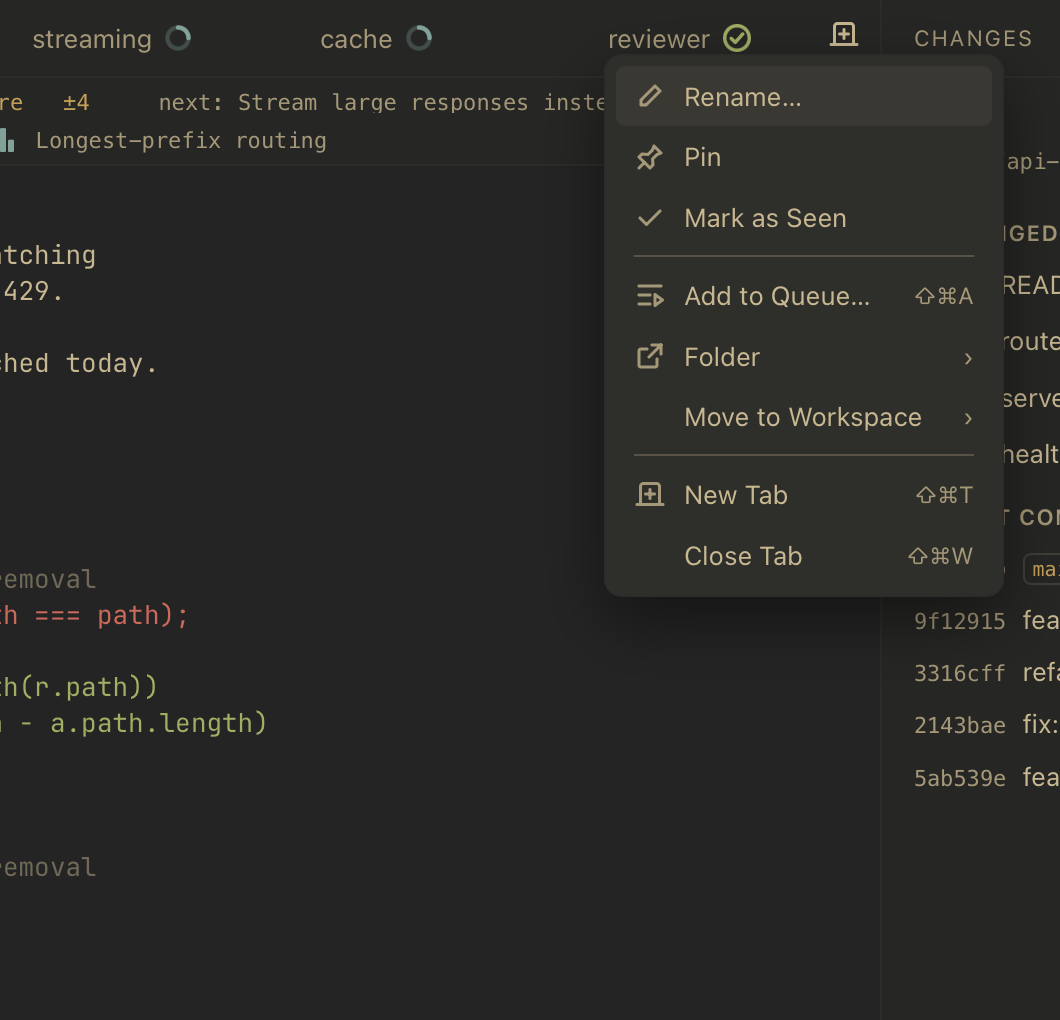
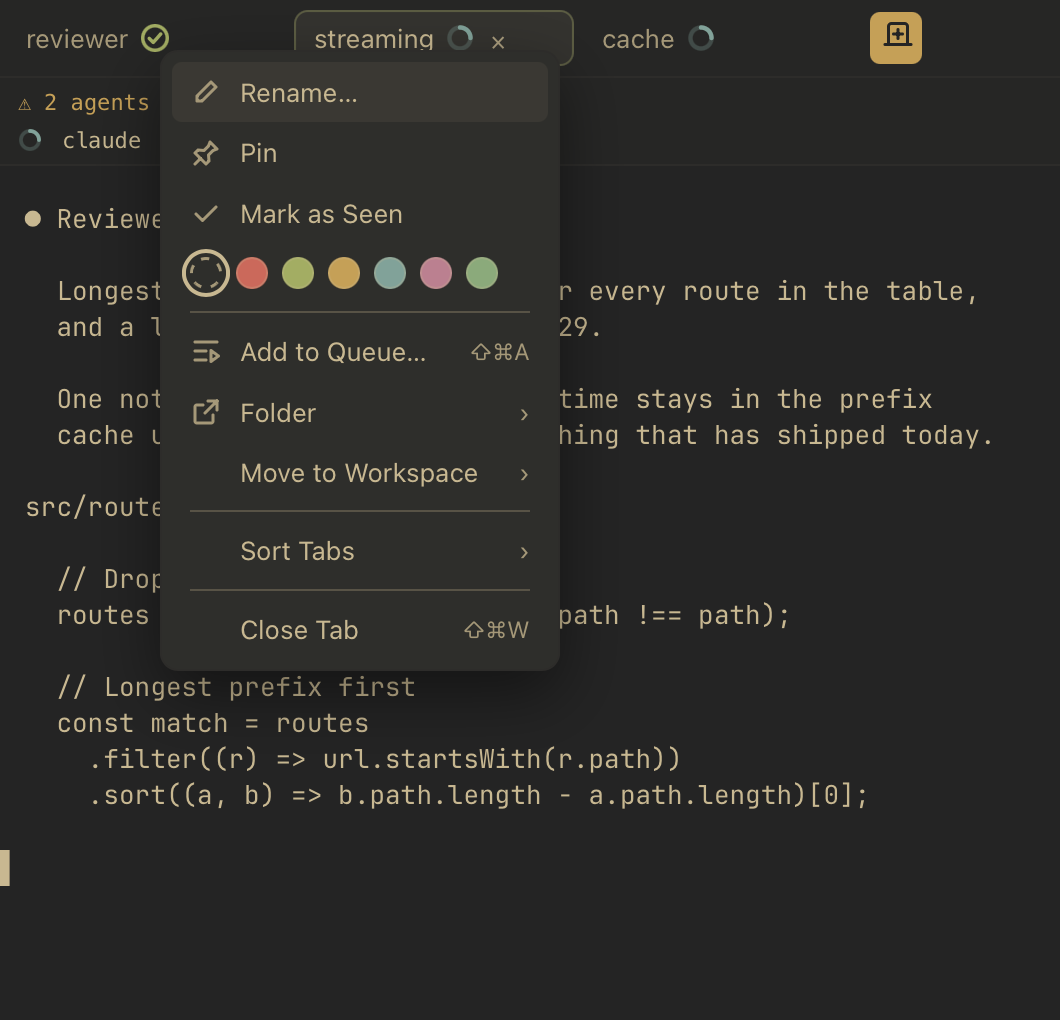
feat: remove New Tab from the tab right-click menu
It did the same as the + and ⌘⇧T, and nobody used it. Close Tab now
stands alone in the last group.

diff --git a/src/components/TabBar.tsx b/src/components/TabBar.tsx
@@ -161,8 +161,8 @@ export function TabBar({
     },
   });
 
-  /// The tab menu. It opens on the tab's own actions, so Enter never makes a
-  /// new tab, and ends with the ones that add or remove a tab.
+  /// The tab menu. It opens on the tab's own actions, so Enter never closes
+  /// the tab, and ends with Close Tab.
   const tabMenu = (tab: Tab): MenuItem[][] => {
     const { others, canSplit } = moveChoices(tab, snapshot);
     const pinned = isPinned(tab);
@@ -228,8 +228,6 @@ export function TabBar({
       ],
       [{ label: "Sort Tabs", items: [[sortChoice("Working First", "working"), sortChoice("Needs You First", "attention")]] }],
       [
-        // As the + button: the shortcut that does the same is ⌘⇧T, not ⌘T's plain terminal.
-        { label: "New Tab", icon: <NewTabIcon />, hint: controller.shortcutHint("new_command_tab"), onSelect: () => controller.newTab() },
         {
           label: "Close Tab",
           hint: pinned ? "Unpin first" : controller.shortcutHint("close_tab"),

diff --git a/docs/architecture.md b/docs/architecture.md
@@ -65,7 +65,7 @@ from that release and run the live test against a daemon of that version.
 | `terminal/mouse.ts` | Wheel events (one event for scrollback, one per line for apps) and the paste bound. |
 | `terminal/links.ts` | Finds the URL (http(s), or a bare `localhost`, `127.0.0.1` or `0.0.0.0:port`), commit hash or file path under a cell, within its pane and across wrapped rows. A URL wins over a hash inside it, and either over a path. ⌘-hover underlines any of them, ⌘-click opens a URL in the browser. A hash is any lone run of 7 to 64 lowercase hex digits, so a number can underline too; ⌘-click asks `find_commit` (`changes.rs`) from the pane's folder and opens the Changes panel on the commit, or says in a notice that there is none. `App` holds the commit until the panel has read that checkout, as a change of checkout closes the open commit. A path is any run of names with a `/`, or one name with an extension, without spaces and without a `:line` after it; ⌘-click asks `find_file` (`files.rs`), which tries it from the pane's folder, then that checkout's top, and answers the file's own checkout, which may be a worktree the pane is not in. The Files panel opens on that checkout until the file closes or the pane moves to another folder, and the file view opens on the file; no such file gives a notice. Local machine only. |
 | `app/hue.ts` | A workspace's color. `hue` is the automatic palette slot of a name; `workspaceSlots` turns `workspace_colors` into each workspace's chosen slot, a worktree taking its main checkout's, keyed by `colorKey`: the fixed root (`useRoots`) and the name, so a remote workspace has none; `workspaceHue` is what every workspace call site reads. `hueColor` alone is for what is not a workspace: DevBar's branch and team roles. |
-| `app/settings.ts` | The settings file's meaning: `parseSettings` turns `settings_load`'s JSON into a typed `Settings` with a default for every key, and a warning for a bad value or a key that is not a setting; `resolveTheme` finds the theme a value shows for the system appearance, built in or through `theme_read`, Herdr Night with a warning when it fails. `app/useSettings.ts` reads the file on launch and whenever the window comes back (only the latest read counts), hands it to `Controller.applySettings` (terminal size, `--ui-scale` for the chrome's text) and follows `prefers-color-scheme` for a pair. ⌘+ / ⌘- / ⌘0 write `terminal.font_size`; `confirm_close_tab`, on by default, is the off switch for the close dialog (see `app/closing.ts`); the tab strip's +, a tab menu's New Tab and ⌘⇧T type `new_tab.command` into the new tab's root pane once `tab.create` answers, and ⌥-click on + and ⌘T open a plain shell. `components/SettingsWarnings.tsx` shows the warnings over the terminal; `components/SettingsDialog.tsx` (⌘,, the palette, or the gear at the right end of the status bar) edits every key but `workspace_colors`, which a workspace's right-click sets, writing each change with `settings_set` as it is made, with a theme search and a preview drawn in the hovered theme's own tokens. See [settings.md](settings.md). |
+| `app/settings.ts` | The settings file's meaning: `parseSettings` turns `settings_load`'s JSON into a typed `Settings` with a default for every key, and a warning for a bad value or a key that is not a setting; `resolveTheme` finds the theme a value shows for the system appearance, built in or through `theme_read`, Herdr Night with a warning when it fails. `app/useSettings.ts` reads the file on launch and whenever the window comes back (only the latest read counts), hands it to `Controller.applySettings` (terminal size, `--ui-scale` for the chrome's text) and follows `prefers-color-scheme` for a pair. ⌘+ / ⌘- / ⌘0 write `terminal.font_size`; `confirm_close_tab`, on by default, is the off switch for the close dialog (see `app/closing.ts`); the tab strip's + and ⌘⇧T type `new_tab.command` into the new tab's root pane once `tab.create` answers, and ⌥-click on + and ⌘T open a plain shell. `components/SettingsWarnings.tsx` shows the warnings over the terminal; `components/SettingsDialog.tsx` (⌘,, the palette, or the gear at the right end of the status bar) edits every key but `workspace_colors`, which a workspace's right-click sets, writing each change with `settings_set` as it is made, with a theme search and a preview drawn in the hovered theme's own tokens. See [settings.md](settings.md). |
 | `app/closing.ts` | Closing a tab hides it at once. Herdr answers `tab.close` only after the tab's process has exited, which takes 300–600 ms for one that traps SIGHUP, as agents and dev servers do. The controller leaves closing tabs and their panes out of the snapshot it renders. Closing the focused tab focuses the one Herdr would pick (the one before it, or after it for the first) before sending the close. A refused close brings the tab back. Closing also hangs up the agent, so `closeAsk` decides whether to ask first: for `tab.close` and `pane.close` that would stop an agent mid-task (`busy` in `app/queue.ts`: working, blocked or looping), a pane counting only its own agent. `Controller.request` holds such a close in `state.closeAsk`, `components/CloseDialog.tsx` shows it, and `answerClose` runs it through the usual path. Shortcuts do nothing while it is open, since a move would hand the focus to the terminal and the Esc meant for the dialog would interrupt the agent. It is a dialog of ours because `window.confirm` cannot work here: wry gives WKWebView no JavaScript confirm handler, and without one WKWebView answers as if Cancel was pressed, with nothing on screen. |
 | `app/tabOrder.ts` | The strip's tab order, kept by the window: `Sort Tabs` on a tab's right-click picks Working First, the default, or Needs You First: blocked (and a finished agent that needs you), done, working. `tabRanks` ranks the tabs and `stripOrder` puts them right after the pinned ones, stable within a rank, in the strip only: a tab goes back to its place when its status drops, and ⌘1–9 still count the daemon's order, so a shortcut doesn't change target with a status. ⌥←/→ and Next / Previous Tab step in the strip's order, which `TabBar` hands the controller as `stripTabs`. `app/useSteadyStrip.ts` supplies the ranks: while the pointer is over the strip, and for 300 ms after it leaves, they stay as they were when the pointer came in, so no tab moves under a click, and a × or middle click within 500 ms of a move is ignored. New and closed tabs and pins show at once. |
 | `app/pins.ts` | Pinned tabs, kept by the window (Herdr has none) and keyed by daemon boot. A pin also moves the tab to the front with `tab.move`, so the daemon's order matches the strip. The set of pins lives in `App`, so the sidebar marks each workspace card that has pinned tabs. A pinned tab has no ×, ignores a middle click, and its menu's Close Tab is disabled until it is unpinned; ⌘⇧W still closes it. |
@@ -108,7 +108,7 @@ from that release and run the live test against a daemon of that version.
 | `files/highlight.ts`, `highlight.worker.ts`, `offThread.ts` | Syntax highlighting: the file view (a text file and a Markdown file's Source view) and the diff views, through `changes/diffTokens.ts`. `highlight.ts` holds the table of 22 languages, by file extension and well-known name, and turns code into tokens with Shiki's core and JS regex engine, no WASM. Core and grammars load on first use as chunks of their own. Token colors are `var(--code-…)`: `themes/chrome.ts` derives them from the palette and `applyTheme` sets them on `:root`, so a theme change repaints without tokenizing. It all runs in a worker (`offThread.ts` is the UI thread's side), since a grammar's first use compiles its regexes, 1.4 s for TypeScript in WKWebView. Slices of 4 KiB keep grammar state between them and let a file that was left stop. The answer is `null`, and the view stays plain, for an unknown language, a file over 256 KiB (the swap to spans is the one step on the UI thread, about 270 ms at the limit) or a grammar or worker that failed; a line over 5,000 characters is plain on its own. `DiffBody` passes text already through `clean` and draws tokens as `<span>`s (`components/TokenSpans.tsx`), never as HTML. |
 | `changes/diffTokens.ts` | Colors for a diff's lines. Each hunk's old side (context and removed) and new side (context and added) are tokenized apart, since a hunk's lines in order are no code that ever existed and an open string must not run into the next hunk; a context line takes the new side's tokens. `DiffBody` shows plain text first and swaps in tokens kept with their diff, so they never draw over another diff's lines. Over 256 KiB of diff stays plain. Known limit: a hunk knows nothing before it, so one that starts inside a block comment reads as code until the comment ends. |
 | `files/markdown.ts` | The file view's Markdown preview (`components/FileView.tsx`, Preview / Source in its header): markdown-it with `html: false`, so a file's own HTML shows as text; headings get GitHub's ids; frontmatter shows as a code block. `resolveLink` decides where a link goes: a web page (opened in the browser), a heading of this file, or another file of the checkout (opened in the view; one that leaves the checkout is refused). Images in the checkout are read through `read_file`; web ones, which the CSP blocks, show their alt text. |
-| `components/TabBar.tsx` | The tab strip: the focused workspace's tabs in `stripOrder`, handed to the controller as `stripTabs`, in wrapped rows or one that scrolls (`tabs.wrap`). Double-click renames, a middle click closes. The + runs `Controller.newTab`; ⌥-click opens a plain terminal. Its right-click has four groups: Rename, Pin, Mark as Seen and, on a tab with an agent that needs you, Clear Needs You; Add to Queue, Folder (the tab's own, which can differ from its workspace's) and Move to Workspace; Sort Tabs (see `app/tabOrder.ts`); New Tab, as the +, and Close Tab. Move to Workspace opens on New Workspace…, then a divider, then the other workspaces; `app/moveTab.ts` decides what is offered and sends. New Workspace… turns the tab into `RenameField`, filled with the tab's title under a "New workspace" cue, so Enter alone confirms and Escape cancels. It is off for a workspace's last tab, which would only rename it, and the row itself only when that tab also has no other workspace to go to. Focus follows the tab, and `onSplit` gives the new workspace its root and queue (`app/workspaceRoot.ts`). |
+| `components/TabBar.tsx` | The tab strip: the focused workspace's tabs in `stripOrder`, handed to the controller as `stripTabs`, in wrapped rows or one that scrolls (`tabs.wrap`). Double-click renames, a middle click closes. The + runs `Controller.newTab`; ⌥-click opens a plain terminal. Its right-click has four groups: Rename, Pin, Mark as Seen and, on a tab with an agent that needs you, Clear Needs You; Add to Queue, Folder (the tab's own, which can differ from its workspace's) and Move to Workspace; Sort Tabs (see `app/tabOrder.ts`); Close Tab. Move to Workspace opens on New Workspace…, then a divider, then the other workspaces; `app/moveTab.ts` decides what is offered and sends. New Workspace… turns the tab into `RenameField`, filled with the tab's title under a "New workspace" cue, so Enter alone confirms and Escape cancels. It is off for a workspace's last tab, which would only rename it, and the row itself only when that tab also has no other workspace to go to. Focus follows the tab, and `onSplit` gives the new workspace its root and queue (`app/workspaceRoot.ts`). |
 | `components/StatusBar.tsx` | The main column's foot. Left, app-wide: `HostPicker`, the connection while it is not up, Reconnect when down, `ClaudeUsage` and the latest notice. Right, the focused workspace: its name, `Worktrees`, `QueueChip`, `Ports` and the settings gear. |
 | `components/ChangesPanel.tsx`, `FilesPanel.tsx` | The drawer's other panels, on the checkout under the focused pane. Changes: branch, `ChangesSync`, `ChangedFiles` and Recent commits, keyed by the checkout so moving to another starts clean. Files: the `files/tree.ts` tree with changed marks and a filter, 2,000 rows drawn at most. |
 | `components/DevBar.tsx` | A window started by `tauri dev` shows a strip along its foot in the branch's hue, `DEV · <branch>`, and puts `[<branch>]` in its title. `vite.config.ts` stamps `__DEV_BRANCH__` when serving off `main`, or from `HERDR_BUILD_LABEL`, which Edge's build sets to `edge <commit>`. Any other built app and the main checkout have neither. |

diff --git a/docs/settings.md b/docs/settings.md
@@ -26,7 +26,7 @@ Window state (sidebar width, workspace sort, pins, the last host) is not a setti
 | `terminal.line_height` | number, 1 to 2 | `1.4` | Row height as a multiple of the size. |
 | `ui.font_size` | number, 10 to 18 | `13` | The chrome's text size (sidebar, tabs, panels, dialogs). Every font size in the stylesheet scales by `size / 13`. |
 | `tabs.wrap` | boolean | `true` | Tabs that do not fit wrap onto more rows. `false` keeps one row, which scrolls sideways with no scrollbar and keeps the open tab and the + in view. |
-| `new_tab.command` | string, one line, at most 1024 characters | none | What the tab strip's +, a tab menu's New Tab and ⌘⇧T type into the new tab's shell, e.g. `"claude"`, as herdr-gpui's `plus_command`. ⌥-click on + or ⌘T always opens a plain shell, and + turns into an outlined terminal icon while ⌥ is held. |
+| `new_tab.command` | string, one line, at most 1024 characters | none | What the tab strip's + and ⌘⇧T type into the new tab's shell, e.g. `"claude"`, as herdr-gpui's `plus_command`. ⌥-click on + or ⌘T always opens a plain shell, and + turns into an outlined terminal icon while ⌥ is held. |
 | `workspace_colors` | table of folder to color | none | A workspace's color, chosen in its right-click menu: each key is a workspace's folder as a full path, then `#` and its name (quoted in TOML), and each value is `red`, `green`, `yellow`, `blue`, `magenta` or `cyan`. See below. |
 | `workspace_cards.git_status` | boolean | `true` | Show the Git counts on every card: ↑ to push, ↓ to pull, ± changed files. |
 | `workspace_cards.agent_status` | boolean | `true` | Show the agent status marks and tally on the head of every card. |

diff --git a/README.md b/README.md
@@ -27,7 +27,7 @@ a menu too, for pinning one, giving it a color, marking it seen, queueing a prom
 <table>
   <tr>
     <td><img src="docs/screenshots/menu-workspace.png" alt="A workspace's right-click menu, with its color swatches and actions, beside the card's agents"></td>
-    <td><img src="docs/screenshots/menu-tab.png" alt="A tab's right-click menu: Rename, Pin and Mark as Seen; Add to Queue, Folder and Move to Workspace; New Tab and Close Tab, with shortcuts beside the rows"></td>
+    <td><img src="docs/screenshots/menu-tab.png" alt="A tab's right-click menu: Rename, Pin, Mark as Seen and the tab colors; Add to Queue, Folder and Move to Workspace; Sort Tabs; Close Tab, with shortcuts beside the rows"></td>
   </tr>
 </table>
 

diff --git a/CHANGELOG.md b/CHANGELOG.md
@@ -2,6 +2,11 @@
 
 Newest first. Times are UTC.
 
+## 2026-11-02 13:40 — Remove New Tab from the tab menu
+
+The tab strip's right-click menu no longer has New Tab, which did the same as the + and ⌘⇧T. Those stay, as does ⌘T, and
+Close Tab is now the last group by itself. `menu-tab.png` is retaken, so it also shows the tab colors and Sort Tabs.
+
 ## 2026-11-02 13:25 — Read a session before resuming it
 
 Clicking a closed session in the Sessions panel no longer resumes it at once. It opens a dialog with the session's latest
